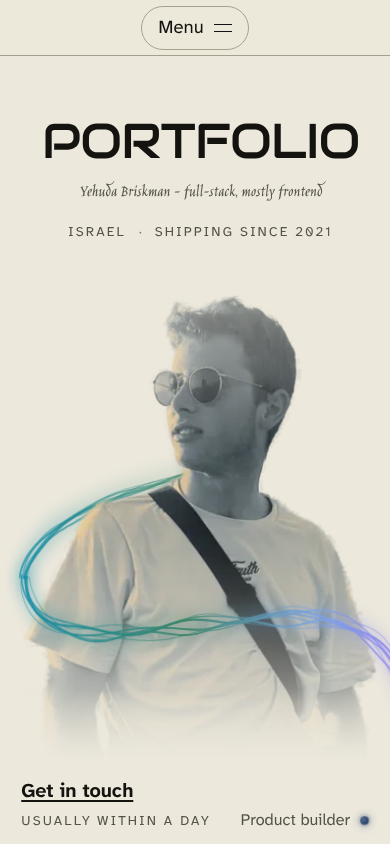
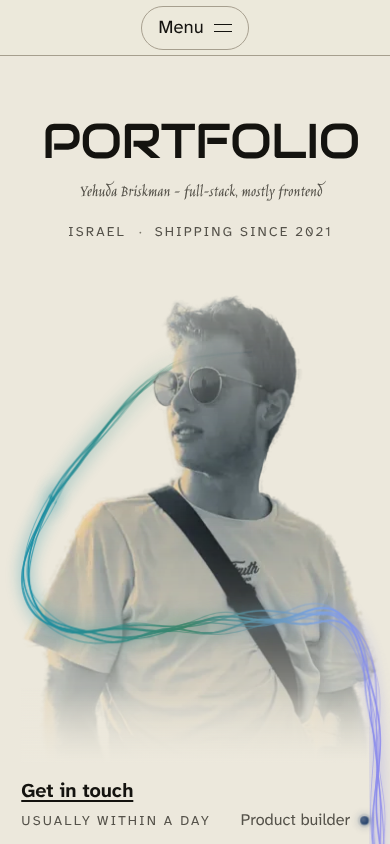
fix(hero): ribbon born behind the head, runs to the page's right edge
Per review on #268: the back half now starts in the hair behind the skull
and leaves the head above the glasses (faded through the head's span, as
the photo is half transparent there). The tail runs to ~92% of a 1440
window before dipping, right of the end corner's phrase; phones get their
own narrow tail inside 390px (scrollWidth == clientWidth). Shots re-taken.

Refs #267

Claude-Session: https://claude.ai/code/session_013rV122rB1efRPxM15SDQLv

Changed region(s): [[0.0308, 0.4313, 1.0, 1.0]]

diff --git a/web/src/components/heroRibbon.ts b/web/src/components/heroRibbon.ts
@@ -36,25 +36,55 @@ type Key = { x: number; y: number; z: number };
 /*
  * Read off the cut-out's alpha: the head spans x 208–421 at y 30–280, the
  * shoulders start at y 320, the torso is x 20–525 at y 450–600. The
- * photograph fades out over its top 40% (`Hero.module.css`), so the ribbon
- * is born behind the jaw, where the head is still opaque enough to hide it.
+ * photograph fades out over its top 40% (`Hero.module.css`: half strength
+ * at y 127), so a ribbon born behind the back of the skull, at hair height,
+ * is partly hidden by the head rather than wholly — which is the owner's
+ * "starts behind the head".
  */
-const KEYS: Key[] = [
-  { x: 330, y: 262, z: 0 }, // behind the jaw, where the photograph is opaque
-  { x: 228, y: 284, z: 0.08 }, // out past the neck
-  { x: 90, y: 318, z: 0.22 },
-  { x: -40, y: 370, z: 0.38 },
-  { x: -100, y: 440, z: 0.5 }, // the side: the far left of the sweep
+const HEAD: Key[] = [
+  { x: 385, y: 92, z: 0 }, // behind the back of the skull, in the hair
+  { x: 300, y: 98, z: 0.03 },
+  { x: 210, y: 116, z: 0.07 }, // leaving the head above the glasses
+  { x: 90, y: 196, z: 0.16 },
+  { x: -40, y: 320, z: 0.32 },
+  { x: -100, y: 430, z: 0.5 }, // the side: the far left of the sweep
   { x: -60, y: 505, z: 0.62 },
   { x: 60, y: 530, z: 0.78 }, // onto the front of the torso
   { x: 250, y: 518, z: 0.95 }, // across the chest
   { x: 450, y: 505, z: 1 },
-  { x: 600, y: 520, z: 0.95 }, // past the arm, toward the right
-  { x: 690, y: 590, z: 0.9 },
-  { x: 735, y: 720, z: 0.86 }, // dipping, inside the lamp's corner
-  { x: 750, y: 880, z: 0.84 },
-  { x: 752, y: 1000, z: 0.84 }, // below the screen's floor, under the act
 ];
+
+/*
+ * After the chest the line runs to the right of the page and only then
+ * dips, so the tail depends on how much page there is to the figure's right.
+ * Measured against the rendered photograph (1440×900: 0.755px a unit from
+ * x 512; 390×844 with the phone's 0.72 squeeze: 0.474px a unit about 201px):
+ *
+ *   wide    turns down at 1050–1098, about 90–93% of a 1440 window, outside
+ *           the end corner's phrase (which ends at 1256px, unit 985)
+ *   narrow  turns down at 600–650, 360–383px of a 390 window: inside the
+ *           window, right of the end corner's phrase (ends at 369px)
+ */
+const TAILS = {
+  wide: [
+    { x: 620, y: 500, z: 0.97 }, // past the arm, toward the right of the page
+    { x: 800, y: 505, z: 0.94 },
+    { x: 960, y: 535, z: 0.9 },
+    { x: 1050, y: 610, z: 0.87 }, // turning down near the page's right edge
+    { x: 1085, y: 720, z: 0.85 },
+    { x: 1095, y: 860, z: 0.84 },
+    { x: 1098, y: 1000, z: 0.84 }, // below the screen's floor, under the act
+  ],
+  narrow: [
+    { x: 560, y: 505, z: 0.96 },
+    { x: 620, y: 560, z: 0.92 },
+    { x: 645, y: 680, z: 0.88 },
+    { x: 650, y: 860, z: 0.85 },
+    { x: 650, y: 1000, z: 0.84 },
+  ],
+} satisfies Record<string, Key[]>;
+
+export type RibbonTail = keyof typeof TAILS;
 
 /** The key point the layers split at: the left extreme, clear of the figure. */
 const SIDE = 4;
@@ -138,8 +168,8 @@ export type RibbonPaths = {
   spineFront: string;
 };
 
-export function heroRibbon(count = 7): RibbonPaths {
-  const { points, split } = sample(KEYS);
+export function heroRibbon(count = 7, tail: RibbonTail = "wide"): RibbonPaths {
+  const { points, split } = sample([...HEAD, ...TAILS[tail]]);
   const length = points[points.length - 1].s;
   /* Gathered to a point behind the head, where the ribbon is born; it
      leaves the screen at full width, so the tail is not tapered. */

diff --git a/web/src/components/HeroRibbon.tsx b/web/src/components/HeroRibbon.tsx
@@ -29,6 +29,8 @@ import styles from "@/components/HeroRibbon.module.css";
  */
 
 const PATHS = heroRibbon();
+/* The phone's tail, which dips inside its narrower window. */
+const NARROW = heroRibbon(7, "narrow");
 const VIEW = `0 0 ${FIG_W} ${FIG_H}`;
 const FRONT_GRADIENT = "hero-aurora-front";
 const BACK_GRADIENT = "hero-aurora-back";
@@ -40,12 +42,20 @@ const X1 = 1040;
 const offsetOf = (x: number) => (x - X0) / (X1 - X0);
 
 /* The back half fades as it goes behind the head: full strength at the
-   side, where it meets the front half (so the seam does not show), down to
-   a third behind the jaw. That, and the ribbon narrowing with depth, is
-   "dimmer and thinner behind". */
-const BACK_FROM = offsetOf(-100);
-const BACK_TO = offsetOf(330);
-const BACK_DIM = 0.32;
+   side, where it meets the front half (so the seam does not show), and
+   nearly gone inside the head's span (x 208–421). The photograph is only
+   half opaque at hair height (its top 40% fades to paper), so the head
+   alone would let the line show through the face; this is the rest of the
+   occlusion. That, and the ribbon narrowing with depth, is "dimmer and
+   thinner behind". [x, opacity] along the drawing's x. */
+const BACK_FADE: [number, number][] = [
+  [-100, 1],
+  [60, 0.85],
+  [150, 0.55],
+  [208, 0.22],
+  [260, 0.08],
+  [421, 0.04],
+];
 
 const rgb = (c: string) => c.match(/\d+/g)!.map(Number);
 
@@ -62,9 +72,9 @@ function colourAt(t: number): string {
   return `rgb(${p.map((v, j) => Math.round(v + (q[j] - v) * k)).join(" ")})`;
 }
 
-const BACK_STOPS = Array.from({ length: 6 }, (_, i) => {
-  const t = BACK_FROM + ((BACK_TO - BACK_FROM) * i) / 5;
-  return { t, colour: colourAt(t), opacity: 1 - (1 - BACK_DIM) * (i / 5) };
+const BACK_STOPS = BACK_FADE.map(([x, opacity]) => {
+  const t = offsetOf(x);
+  return { t, colour: colourAt(t), opacity };
 });
 
 function Gradients() {
@@ -114,11 +124,45 @@ export default function HeroRibbon({ layer }: { layer: "back" | "front" }) {
               <Gradients />
             </defs>
           )}
-          <path d={back ? PATHS.spineBack : PATHS.spineFront} stroke={stroke} />
+          {back ? (
+            <path d={PATHS.spineBack} stroke={stroke} />
+          ) : (
+            <>
+              <path
+                className={styles.wide}
+                d={PATHS.spineFront}
+                stroke={stroke}
+              />
+              <path
+                className={styles.narrow}
+                d={NARROW.spineFront}
+                stroke={stroke}
+              />
+            </>
+          )}
         </svg>
-        <svg className={styles.strands} viewBox={VIEW} focusable="false">
-          <Strands stroke={stroke} ds={back ? PATHS.back : PATHS.front} />
-        </svg>
+        {back ? (
+          <svg className={styles.strands} viewBox={VIEW} focusable="false">
+            <Strands stroke={stroke} ds={PATHS.back} />
+          </svg>
+        ) : (
+          <>
+            <svg
+              className={`${styles.strands} ${styles.wide}`}
+              viewBox={VIEW}
+              focusable="false"
+            >
+              <Strands stroke={stroke} ds={PATHS.front} />
+            </svg>
+            <svg
+              className={`${styles.strands} ${styles.narrow}`}
+              viewBox={VIEW}
+              focusable="false"
+            >
+              <Strands stroke={stroke} ds={NARROW.front} />
+            </svg>
+          </>
+        )}
       </span>
     </span>
   );

diff --git a/web/src/components/__tests__/HeroRibbon.test.tsx b/web/src/components/__tests__/HeroRibbon.test.tsx
@@ -62,6 +62,29 @@ describe("the hero's aurora ribbon", () => {
     expect(Number(last(spineFront).split(" ")[1])).toBeGreaterThan(845);
   });
 
+  it("is born behind the head and runs to the right of the page before it dips", () => {
+    const first = (d: string) =>
+      d
+        .match(/^M([-\d.]+) ([-\d.]+)/)!
+        .slice(1)
+        .map(Number);
+    const xs = (d: string) =>
+      [...d.matchAll(/[ML]([-\d.]+) /g)].map((m) => Number(m[1]));
+    const wide = heroRibbon();
+    const narrow = heroRibbon(7, "narrow");
+    /* Hair height, inside the head's span (x 208–421, y 30–280). */
+    const [x, y] = first(wide.spineBack);
+    expect(x).toBeGreaterThan(208);
+    expect(x).toBeLessThan(421);
+    expect(y).toBeLessThan(200);
+    /* ~90% of a 1440 window (unit 1040 = 1297px); and, on a phone, inside
+       390px with the 0.72 squeeze (unit 680 = 393px). */
+    expect(Math.max(...xs(wide.spineFront))).toBeGreaterThan(1040);
+    expect(Math.max(...xs(narrow.spineFront))).toBeLessThan(680);
+    /* The back half is the same on both; only the tail differs. */
+    expect(narrow.spineBack).toBe(wide.spineBack);
+  });
+
   it("drifts only on the hero's scroll, behind the three switches", () => {
     const gate = CSS.slice(
       CSS.indexOf("@supports (animation-timeline: view())"),

diff --git a/web/src/components/HeroRibbon.module.css b/web/src/components/HeroRibbon.module.css
@@ -93,7 +93,7 @@
 
 /* The two halves are dressed alike, so the seam at the side does not show:
    the back half's dimming is in its gradient, which fades it from full
-   strength at the side to a third behind the jaw, and its thinning is in
+   strength at the side to a third behind the skull, and its thinning is in
    the geometry. */
 .haze {
   opacity: 0.3;
@@ -106,10 +106,20 @@
 
 /* On a phone the figure is nearly the width of the window and the sweep's
    far side would be off the edge, so the ring is drawn narrower round the
-   same figure: still behind the jaw, still across the chest. */
+   same figure: still behind the head, still across the chest. And its tail
+   is the narrow one (`heroRibbon.ts`), which dips inside the window. */
+.narrow {
+  display: none;
+}
 @media (max-width: 699px) {
   .frame {
     scale: 0.72 1;
+  }
+  .wide {
+    display: none;
+  }
+  .narrow {
+    display: block;
   }
 }
 
